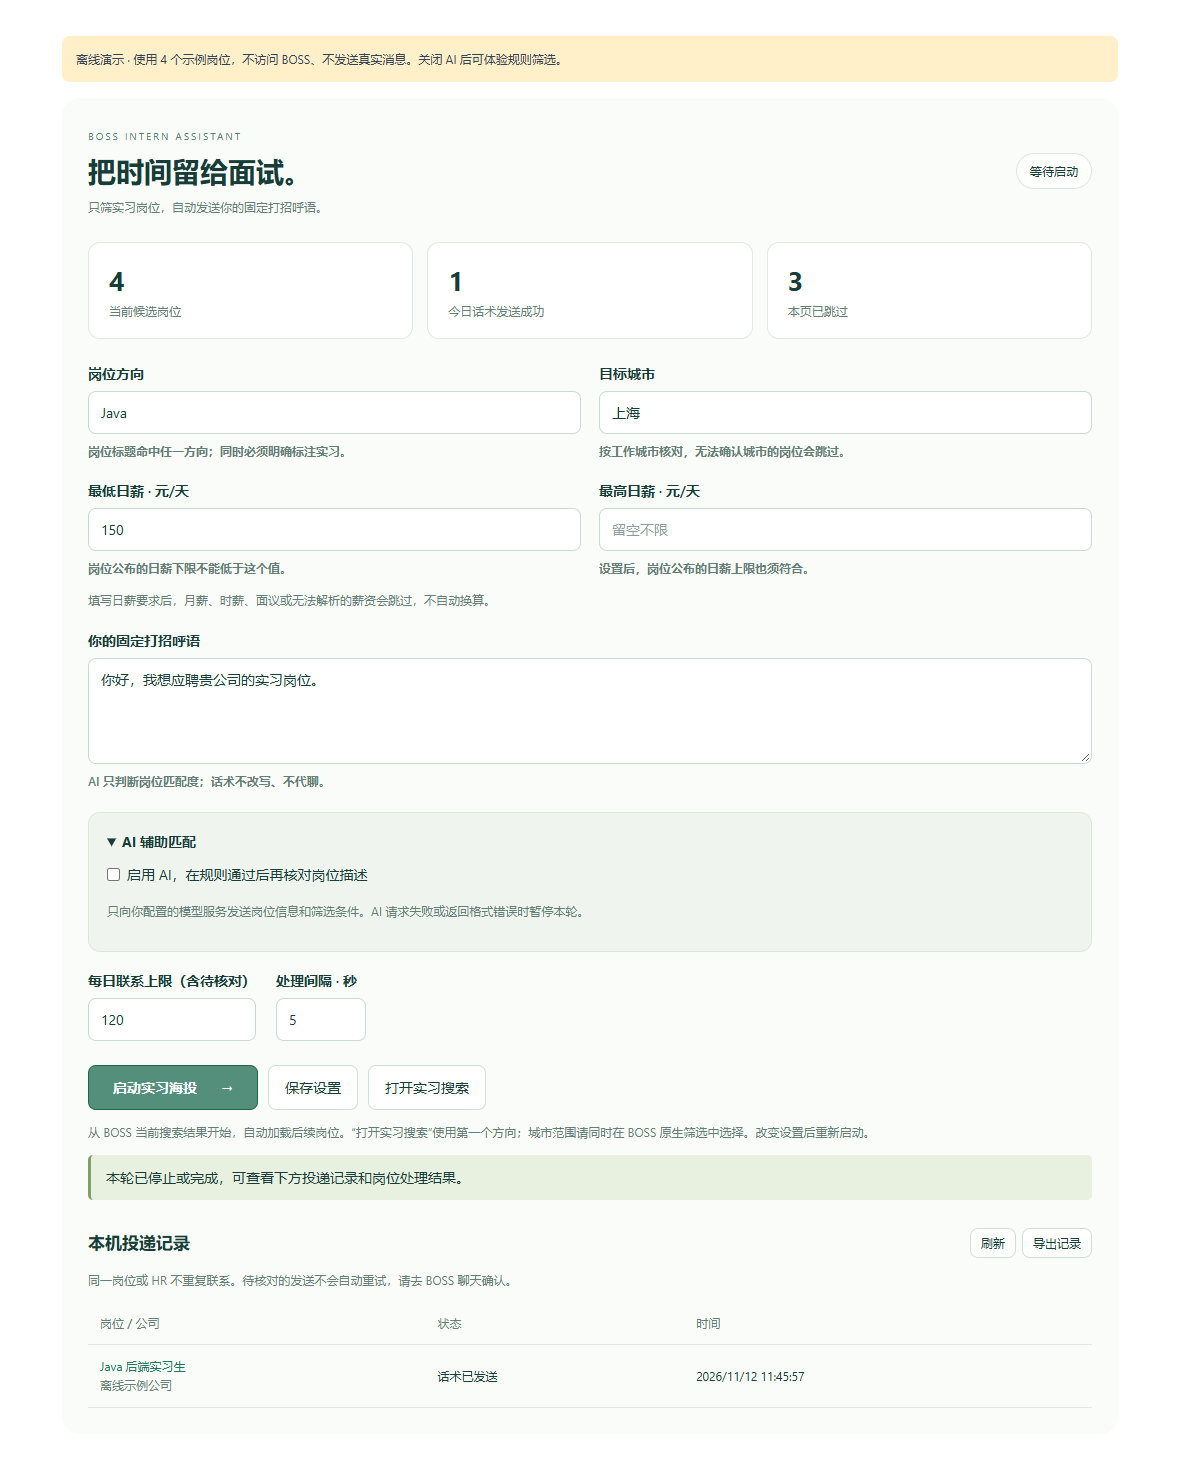
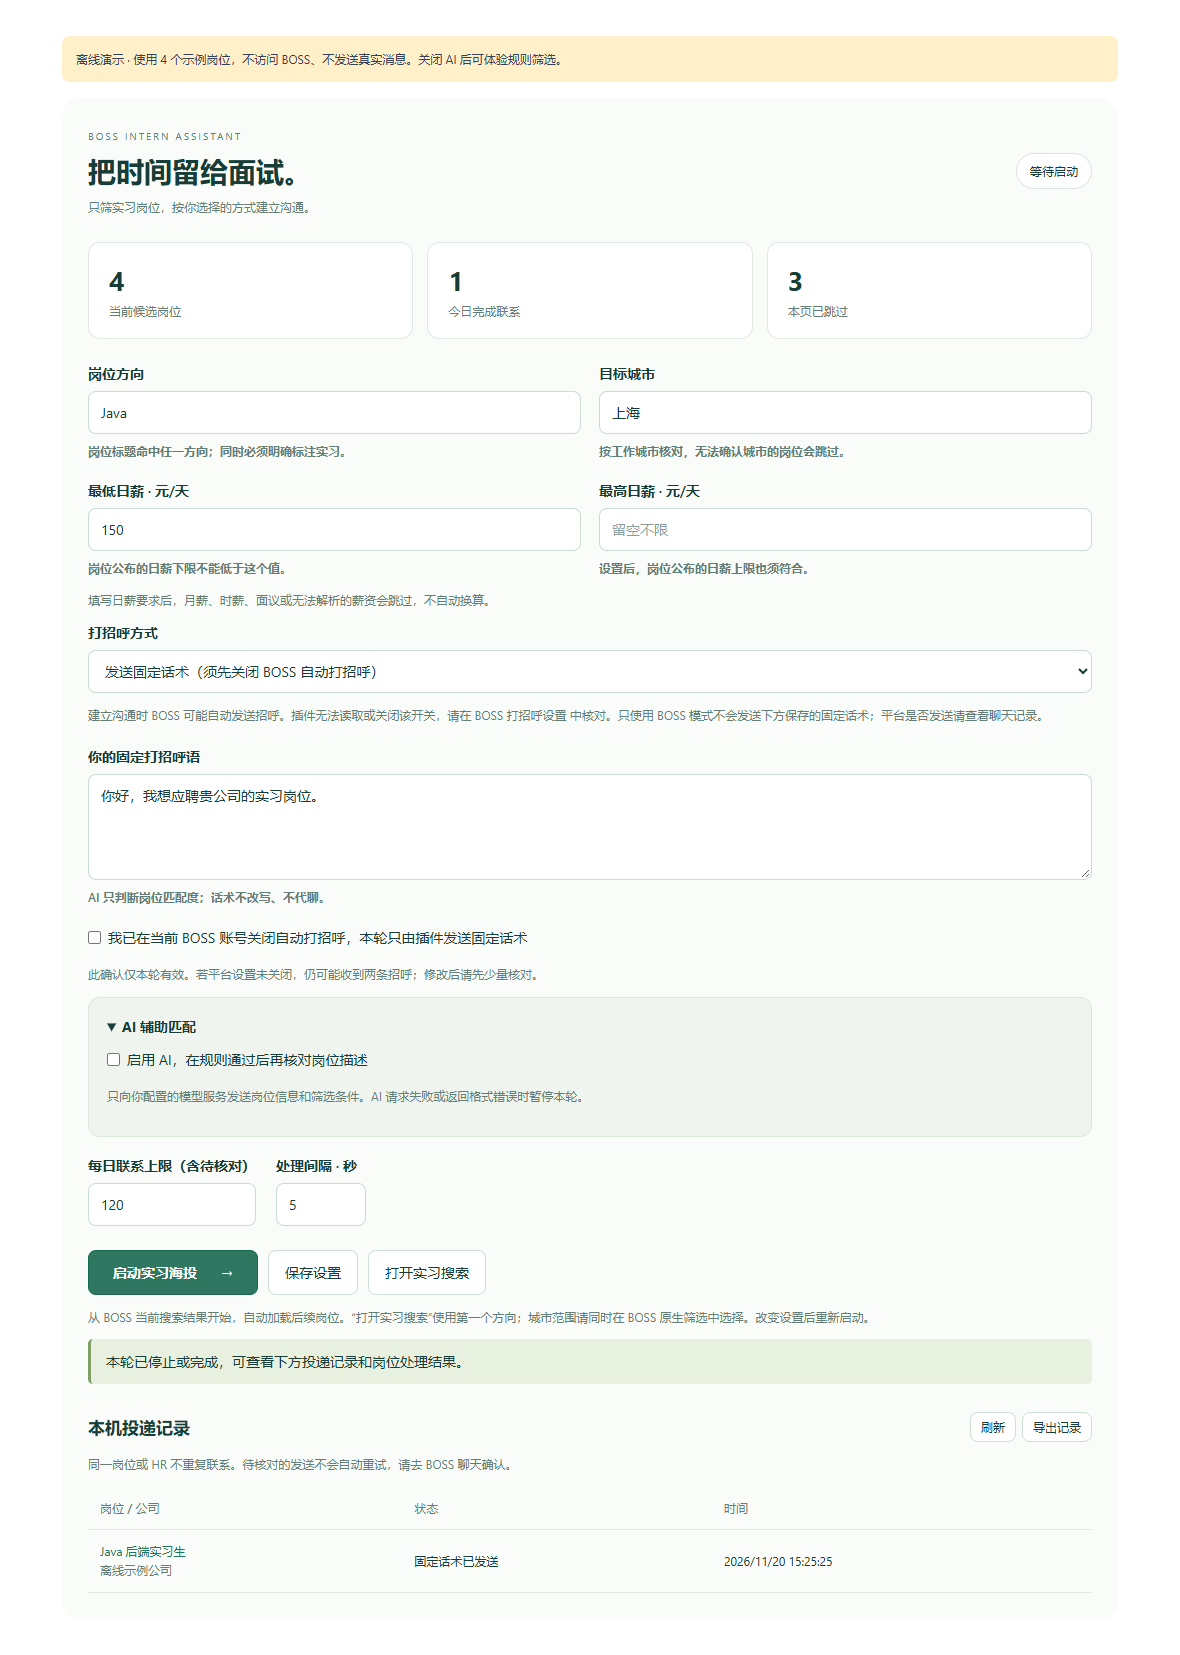
fix: prevent duplicate platform and custom greetings

diff --git a/src/components/InternshipPanel.vue b/src/components/InternshipPanel.vue
@@ -1,5 +1,5 @@
 <script setup lang="ts">
-import { computed, onMounted, ref } from 'vue'
+import { computed, onMounted, ref, watch } from 'vue'
 import { useConf } from '@/composables/conf'
 import { useHelper } from '@/composables/useHelper'
 import { useModel } from '@/composables/useModel'
@@ -14,11 +14,17 @@ const form = computed(() => conf.formData.internship)
 const running = computed(() => helper.workflow?.busy.value ?? false)
 const saving = ref(false)
 const message = ref('')
+const customGreetingConfirmed = ref(false)
+const greetingMode = computed({
+  get: () => form.value.greetingMode ?? 'platform',
+  set: (value: 'platform' | 'custom') => { form.value.greetingMode = value },
+})
+watch([greetingMode, () => helper.uid], () => { customGreetingConfirmed.value = false })
 const records = ref<DeliveryRecord[]>([])
 const results = computed(() => [...helper.jobResultMaps.values()])
 const skipped = computed(() => results.value.filter((item) => item.status === 'warn').length)
 const stages: Record<string, string> = {
-  reserved: '待核对：已预留', contacted: '已建立沟通', sent: '话术已发送',
+  reserved: '待核对：已预留', contacted: '已建立沟通（固定话术未发送）', sent: '固定话术已发送',
   uncertain: '发送结果待核对', cancelled: '发送前已停止',
 }
 
@@ -41,18 +47,29 @@ async function save() {
 async function start() {
   const errors = [...validateInternshipConfig(form.value), ...validateRunLimits(conf.formData.deliveryLimit.value, conf.formData.delayDeliveryInterval)]
   if (errors.length) { message.value = errors.join('；'); return }
+  if (greetingMode.value === 'custom' && !customGreetingConfirmed.value) {
+    message.value = '请先在 BOSS 关闭自动打招呼，并勾选本轮确认，避免平台招呼和固定话术连续发送。'
+    return
+  }
   if (!helper.jobList.value.length) { message.value = '当前还没有岗位，请先使用 BOSS 搜索实习岗位。'; return }
   saving.value = true
   try { await conf.confSaving({ silent: true }) }
   catch (error) { message.value = `保存失败，未启动：${String(error)}`; return }
   finally { saving.value = false }
-  message.value = '正在筛选，通过后会自动发送你填写的固定话术。'
+  helper.customGreetingConfirmed.value = customGreetingConfirmed.value
+  message.value = greetingMode.value === 'custom'
+    ? '正在筛选，通过后会建立沟通并发送固定话术。'
+    : '正在筛选，通过后只建立沟通，插件不追加话术。'
   try {
     await helper.start('auto')
     message.value = helper.workflow?.errorMessage.value
       ? `已暂停：${helper.workflow.errorMessage.value}。请先核对记录，再重新启动。`
       : '本轮已停止或完成，可查看下方投递记录和岗位处理结果。'
   } catch (error) { message.value = `启动失败：${String(error)}` }
+  finally {
+    helper.customGreetingConfirmed.value = false
+    customGreetingConfirmed.value = false
+  }
   await refreshHistory()
 }
 async function search() {
@@ -78,12 +95,12 @@ onMounted(refreshHistory)
   <section class="intern-panel">
     <header class="intro">
       <div><span class="eyebrow">BOSS INTERN ASSISTANT</span><h2>把时间留给面试。</h2>
-        <p>只筛实习岗位，自动发送你的固定打招呼语。</p></div>
+        <p>只筛实习岗位，按你选择的方式建立沟通。</p></div>
       <span class="state" :class="{ active: running }">{{ running ? '正在处理岗位' : '等待启动' }}</span>
     </header>
     <div class="metrics">
       <div><strong>{{ helper.jobList.value.length }}</strong><span>当前候选岗位</span></div>
-      <div><strong>{{ helper.statistics.todayData.value.success }}</strong><span>今日话术发送成功</span></div>
+      <div><strong>{{ helper.statistics.todayData.value.success }}</strong><span>今日完成联系</span></div>
       <div><strong>{{ skipped }}</strong><span>本页已跳过</span></div>
     </div>
     <fieldset :disabled="running || saving" class="settings">
@@ -94,10 +111,19 @@ onMounted(refreshHistory)
         <label>最高日薪 · 元/天 <input type="number" min="0" :value="form.maxDailySalary ?? ''" @input="setSalary('maxDailySalary', $event)" placeholder="留空不限" /><small>设置后，岗位公布的日薪上限也须符合。</small></label>
       </div>
       <p class="hint">填写日薪要求后，月薪、时薪、面议或无法解析的薪资会跳过，不自动换算。</p>
-      <label class="greeting">你的固定打招呼语 <textarea v-model="form.greeting" rows="4" placeholder="粘贴你已经写好的打招呼语，系统将原样发送。" /><small>AI 只判断岗位匹配度；话术不改写、不代聊。</small></label>
+      <label>打招呼方式 <select v-model="greetingMode" data-testid="greeting-mode">
+        <option value="platform">只使用 BOSS 自带招呼（插件不追加消息）</option>
+        <option value="custom">发送固定话术（须先关闭 BOSS 自动打招呼）</option>
+      </select></label>
+      <p class="hint">建立沟通时 BOSS 可能自动发送招呼。插件无法读取或关闭该开关，请在 <a href="https://www.zhipin.com/web/geek/notify-set?type=greetSet" target="_blank" rel="noopener noreferrer">BOSS 打招呼设置</a> 中核对。只使用 BOSS 模式不会发送下方保存的固定话术；平台是否发送请查看聊天记录。</p>
+      <template v-if="greetingMode === 'custom'">
+        <label class="greeting">你的固定打招呼语 <textarea v-model="form.greeting" rows="4" placeholder="粘贴你已经写好的打招呼语，系统将原样发送。" /><small>AI 只判断岗位匹配度；话术不改写、不代聊。</small></label>
+        <label class="check"><input type="checkbox" v-model="customGreetingConfirmed" data-testid="greeting-confirmation" />我已在当前 BOSS 账号关闭自动打招呼，本轮只由插件发送固定话术</label>
+        <p class="hint">此确认仅本轮有效。若平台设置未关闭，仍可能收到两条招呼；修改后请先少量核对。</p>
+      </template>
       <details class="ai" open>
         <summary>AI 辅助匹配</summary>
-        <label class="check"><input type="checkbox" v-model="form.aiEnabled" />启用 AI，在规则通过后再核对岗位描述</label>
+        <label class="check"><input type="checkbox" v-model="form.aiEnabled" data-testid="ai-enabled" />启用 AI，在规则通过后再核对岗位描述</label>
         <div v-if="form.aiEnabled" class="grid">
           <label>匹配模型 <select v-model="form.model"><option value="">请选择已配置的模型</option><option v-for="model in models.modelData.value" :key="model.key" :value="model.key">{{ model.name }}</option></select><button type="button" class="link" @click="counter.openOptionsPage()">配置模型与 API 密钥</button></label>
           <label>补充匹配要求（可选）<textarea v-model="form.notes" rows="2" placeholder="填写岗位方向之外需要 AI 核对的偏好" /></label>

diff --git a/src/internship/delivery.ts b/src/internship/delivery.ts
@@ -14,6 +14,8 @@ export interface DeliveryRecord {
 }
 
 export interface DeliveryActions {
+  // Per-run acknowledgement, never persisted with model or internship settings.
+  customGreetingConfirmed?: boolean
   isStopped(): boolean
   matchWithAI(): Promise<{ matches: boolean; reason: string }>
   reserve(): Promise<boolean>
@@ -28,6 +30,10 @@ export async function executeInternshipDelivery(
 ): Promise<{ sent: boolean; reason: string }> {
   const errors = validateInternshipConfig(config)
   if (errors.length) throw new Error(errors.join('；'))
+  const customGreeting = config.greetingMode === 'custom'
+  if (customGreeting && actions.customGreetingConfirmed !== true) {
+    throw new Error('请先在 BOSS 关闭自动打招呼，再确认本轮使用固定话术，避免连续发送两条消息')
+  }
   const rules = evaluateInternshipRules(job, config)
   if (!rules.matches) return { sent: false, reason: rules.reason }
   if (actions.isStopped()) return { sent: false, reason: '已停止' }
@@ -47,6 +53,10 @@ export async function executeInternshipDelivery(
   try {
     await actions.publish()
     await actions.settle('contacted')
+    if (!customGreeting) {
+      // Establishing contact can send BOSS's own greeting. Do not append another message.
+      return { sent: true, reason: '已建立沟通，插件未追加话术；BOSS 自带招呼请在聊天中核对' }
+    }
     if (actions.isStopped()) throw new Error('已建立沟通后停止，固定话术尚未发送，请手动核对')
     await actions.greet(config.greeting)
     await actions.settle('sent')

diff --git a/src/internship/policy.ts b/src/internship/policy.ts
@@ -4,6 +4,7 @@ export interface InternshipConfig {
   minDailySalary: number | null
   maxDailySalary: number | null
   greeting: string
+  greetingMode?: 'platform' | 'custom'
   aiEnabled: boolean
   model: string
   notes: string
@@ -23,7 +24,7 @@ export interface InternshipJob {
 
 export const emptyInternshipConfig: InternshipConfig = {
   directions: '', cities: '', minDailySalary: null, maxDailySalary: null,
-  greeting: '', aiEnabled: true, model: '', notes: '',
+  greeting: '', greetingMode: 'platform', aiEnabled: true, model: '', notes: '',
 }
 
 export function splitKeywords(value: string): string[] {
@@ -34,7 +35,8 @@ export function validateInternshipConfig(config: InternshipConfig): string[] {
   const errors: string[] = []
   if (!splitKeywords(config.directions).length) errors.push('请填写至少一个岗位方向')
   if (!splitKeywords(config.cities).length) errors.push('请填写至少一个目标城市')
-  if (!config.greeting.trim()) errors.push('请填写固定打招呼语')
+  if (config.greetingMode !== undefined && !['platform', 'custom'].includes(config.greetingMode)) errors.push('请选择有效的打招呼方式')
+  if (config.greetingMode === 'custom' && !config.greeting.trim()) errors.push('请填写固定打招呼语')
   for (const value of [config.minDailySalary, config.maxDailySalary]) {
     if (value !== null && (!Number.isFinite(value) || value < 0)) {
       errors.push('日薪必须是非负数字，或留空表示不限')

diff --git a/src/entrypoints/demo/main.ts b/src/entrypoints/demo/main.ts
@@ -23,13 +23,14 @@ async function main() {
     const statistics = { todayData: ref({ success: 0 }) }
     const jobResultMaps = reactive(new Map())
     const helper = {
-      uid: 'offline-demo', jobList: ref(jobs), statistics, jobResultMaps, workflow,
+      uid: 'offline-demo', jobList: ref(jobs), statistics, jobResultMaps, workflow, customGreetingConfirmed: ref(false),
       stop() { workflow.status.value = 'stop' },
       async start() {
         workflow.busy.value = true; workflow.status.value = 'running'; workflow.errorMessage.value = null
         try {
           for (const job of jobs) {
             const result = await executeInternshipDelivery(job, structuredClone(toRaw(conf.formData.internship)), {
+              customGreetingConfirmed: helper.customGreetingConfirmed.value,
               isStopped: () => workflow.status.value !== 'running',
               matchWithAI: async () => { throw new Error('离线演示不调用 AI，请关闭 AI 后体验规则筛选') },
               reserve: () => counter.reserveInternshipDelivery({ account: 'offline-demo', jobKey: job.key, hrId: job.key, jobName: job.jobName, company: '离线示例公司', link: '', stage: 'reserved', updatedAt: Date.now() }, conf.formData.deliveryLimit.value),

diff --git a/src/entrypoints/boss/delivery.ts b/src/entrypoints/boss/delivery.ts
@@ -43,6 +43,7 @@ export const bossWorkflow = defineTaskWorkflow<BossHelperCtx, BoosJobData>(
     return async (ctx, data) => {
       const account = ctx.helper.uid
       const result = await executeInternshipDelivery(data.jobData, config, {
+        customGreetingConfirmed: ctx.helper.customGreetingConfirmed.value,
         isStopped: () => ctx.helper.workflow?.status.value !== 'running' || ctx.helper.uid !== account,
         matchWithAI: async () => {
           const agent = ctx.helper.chatModel.agents.get('filtering')

diff --git a/src/composables/useHelper/ctx.ts b/src/composables/useHelper/ctx.ts
@@ -32,6 +32,7 @@ export abstract class HelperContext<C extends HelperContext<C, T, S>, T, S> {
   cache: HelperCache
   jobCache: JobResultCache
   workflow: DeliveryWorkflow<C, T, S> | null = null
+  customGreetingConfirmed = ref(false)
   workflowRunning = computed(() => this.workflow?.status.value === 'running')
   jobResultMaps: Reactive<Map<string, TaskResult>>
 

diff --git a/README.md b/README.md
@@ -2,14 +2,14 @@
 
 基于 [Ocyss/boss-helper](https://github.com/Ocyss/boss-helper) 的 BOSS 直聘浏览器插件派生版，专注实习筛选与固定话术自动打招呼。
 
-**状态：0.1.0，本地构建与离线流程验证版本。尚未使用真实 BOSS 账号验证当前网站的完整投递流程。** BOSS 页面或接口变动可能影响兼容性。
+**状态：0.1.1，本地构建与离线流程验证版本。尚未使用真实 BOSS 账号验证当前网站的完整投递流程。** BOSS 页面或接口变动可能影响兼容性。
 
 ![离线演示界面](docs/images/offline-demo.png)
 
 ## 第一版功能
 
 - 在 BOSS 网页里填写岗位方向、城市、日薪范围、固定打招呼语，保存后启动。
-- 从当前 BOSS 搜索结果读取岗位，继续加载后续结果；按实习、方向、城市、日薪筛选，通过后自动打招呼。
+- 从当前 BOSS 搜索结果读取岗位，继续加载后续结果；按实习、方向、城市、日薪筛选，通过后建立沟通。默认由 BOSS 自带招呼处理，插件不追加消息。
 - AI 可辅助分析岗位描述；只发筛选条件、补充要求和岗位信息，不生成或改写招呼语。
 - 固定话术原样发送，不替换模板变量，不自动回复 HR，不自动发送附件。
 - 同一 BOSS 账号下的岗位和 HR 持久去重。通过数据库事务阻止两个标签页同时重复联系同一 HR。
@@ -26,7 +26,11 @@
 3. 选择“加载已解压的扩展程序”，选中**直接包含 manifest.json 的文件夹**。
 4. 登录 BOSS 直聘，打开职位搜索页，刷新后会出现“实习海投”面板。
 5. 填写自己的筛选条件和固定话术。需要 AI 时，进入模型设置，填写自己选择的服务地址、密钥、模型名称并保存，然后回到 BOSS 页面选择模型。
-6. 先在 BOSS 原生搜索中选择目标城市和岗位；再点击“启动实习海投”。通过筛选会直接建立沟通并发送固定话术。
+6. 选择打招呼方式：默认“只使用 BOSS 自带招呼”，通过筛选后只建立沟通，插件不追加消息。平台是否发送由 BOSS 设置决定，请在真实聊天中核对。
+7. 如需发送固定话术，先在 [BOSS 打招呼设置](https://www.zhipin.com/web/geek/notify-set?type=greetSet) 关闭自动打招呼，再选择“发送固定话术”，填写话术并勾选本轮确认。插件无法自动读取或关闭平台开关；未实际关闭仍可能出现两条消息。确认不会保存，每轮结束或刷新后需要重新确认。
+8. 先在 BOSS 原生搜索中选择目标城市和岗位；再点击“启动实习海投”。通过筛选会真实建立沟通，固定话术模式还会发送填写的文字。
+
+升级旧配置时，未选择发送方式的配置默认为“只使用 BOSS 自带招呼”，已有固定话术保留但不自动发送。记录中的“已建立沟通（固定话术未发送）”不代表平台消息已送达；“固定话术已发送”才表示插件收到了该消息的业务回执。
 
 “打开实习搜索”使用填写的**第一个方向**加“实习”作为搜索词，并保留当前 URL 中的城市代码。它不会自动轮询所有方向或切换城市。插件会再按用户填写的所有方向和城市进行核对。
 
